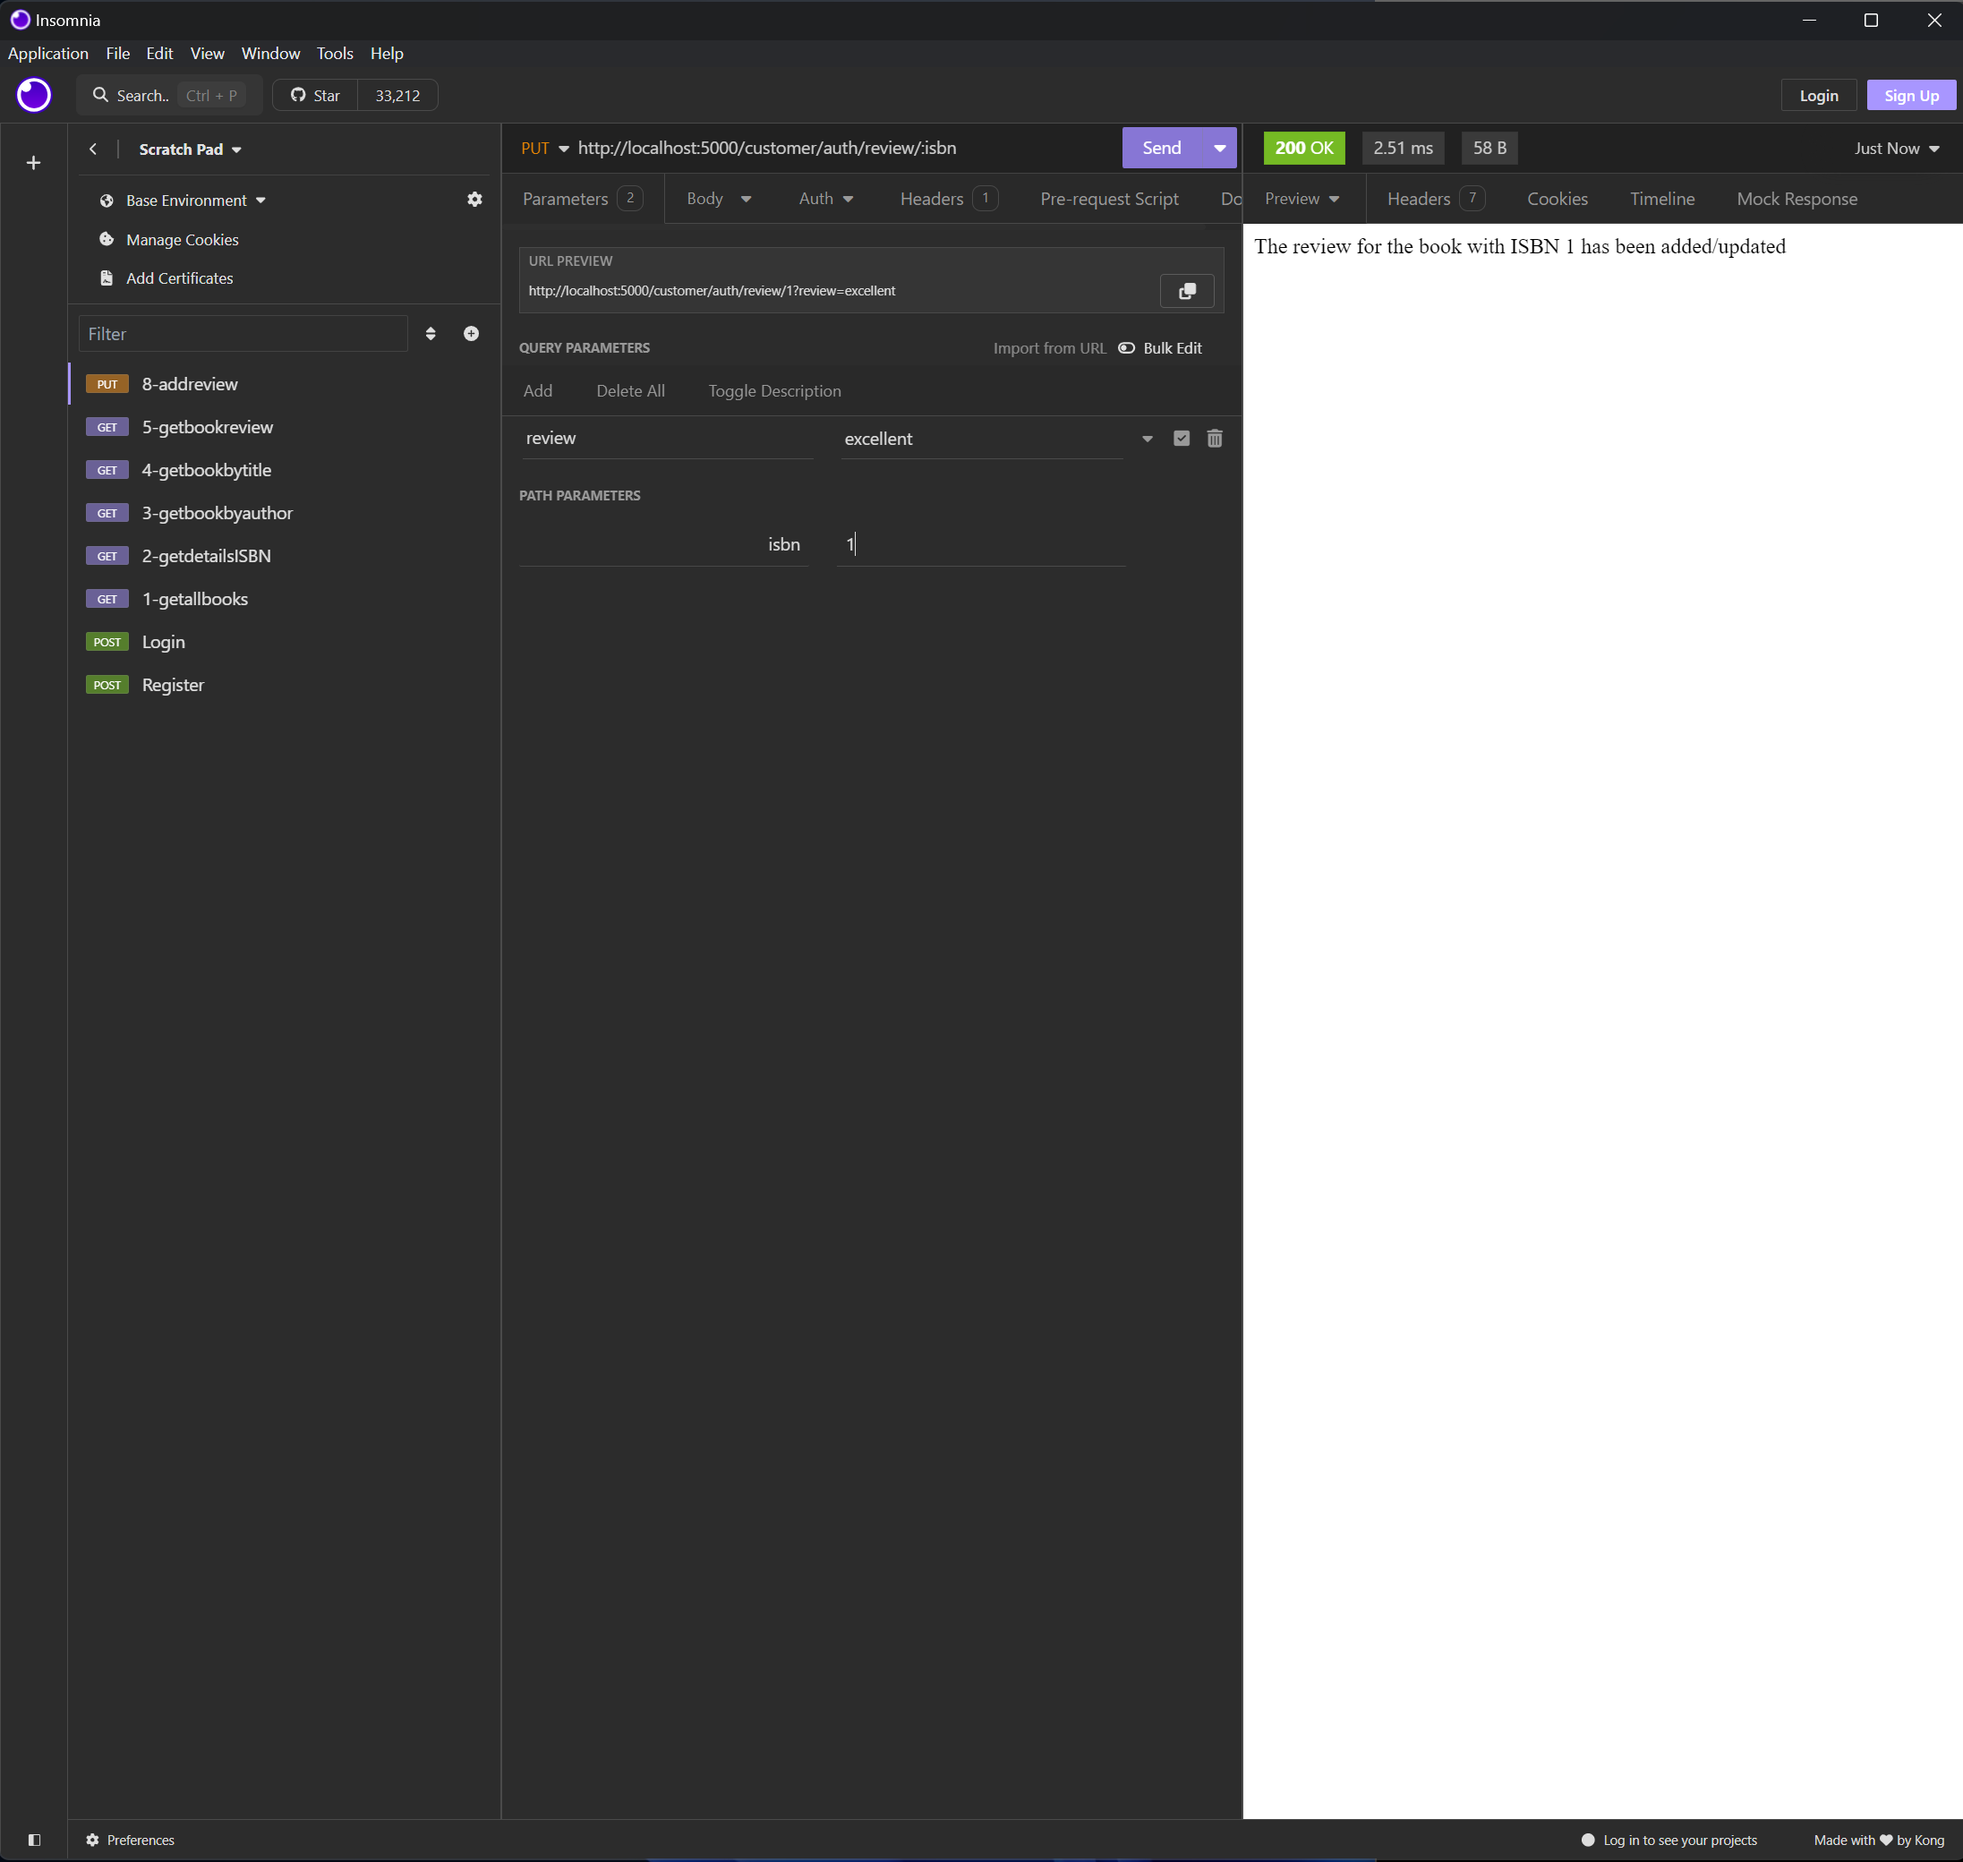
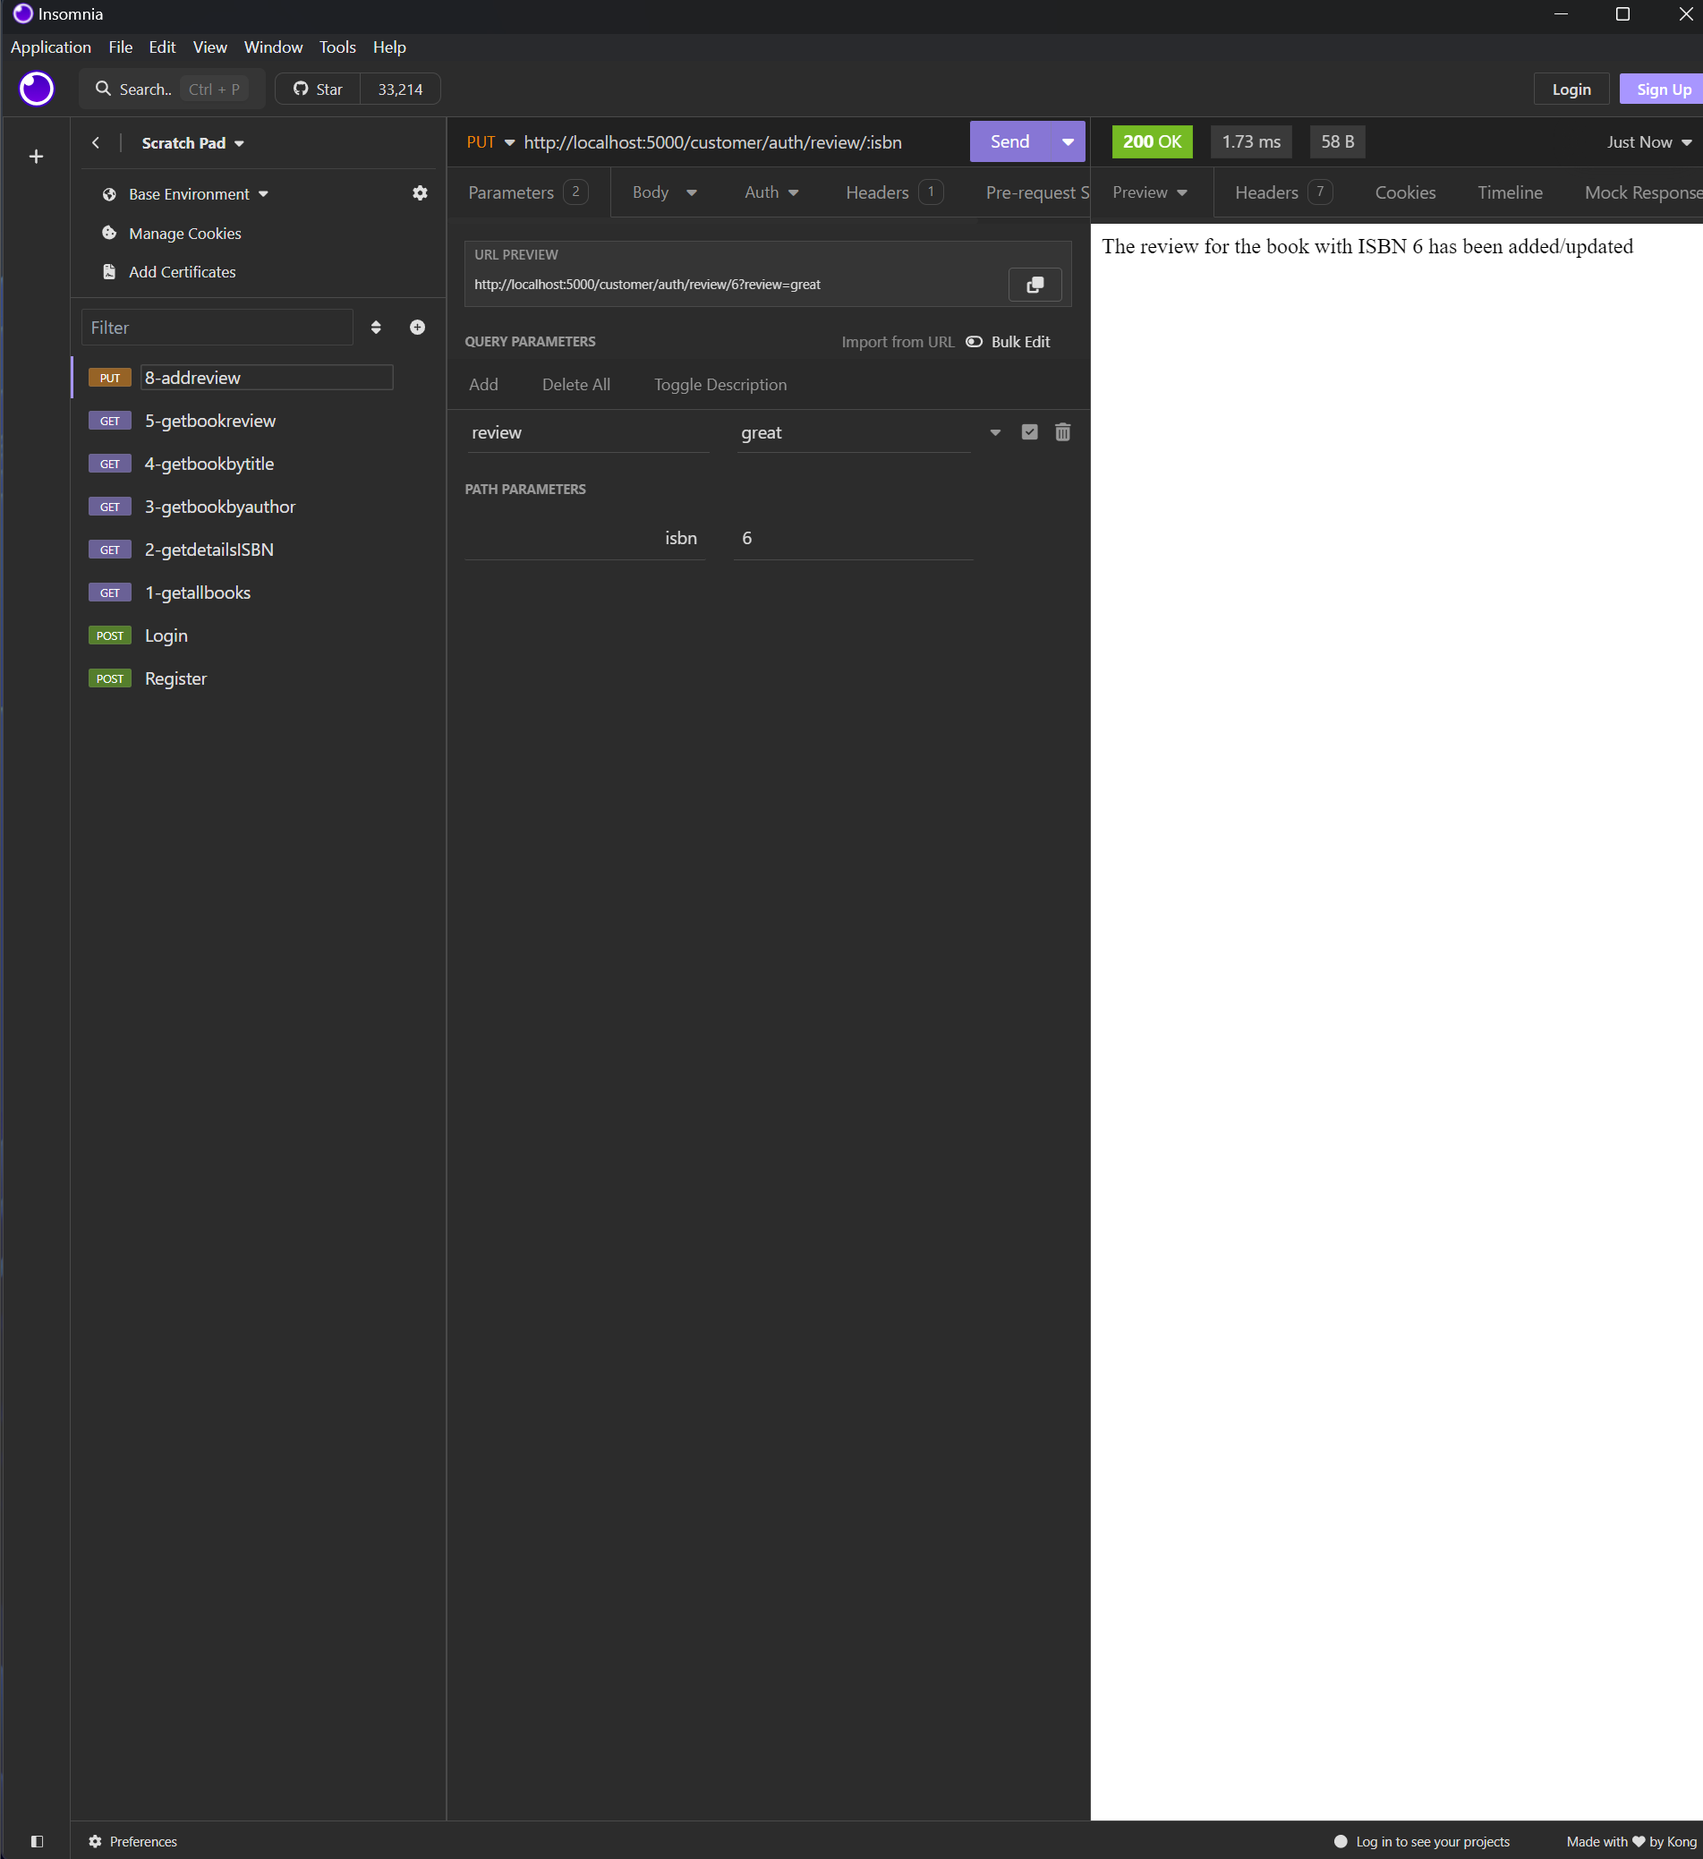
added review for multiple users and DELETE

diff --git a/final_project/router/auth_users.js b/final_project/router/auth_users.js
@@ -59,9 +59,24 @@ regd_users.post("/login", (req,res) => {
 regd_users.put("/auth/review/:isbn", (req, res) => {
   let isbn = req.params.isbn;
   let review = req.query.review;
-  let user = req.session.user;
-  books[isbn].reviews = `${user.username}:  ${review}`;
+  let user = req.session.user.username;
+  let reviews = books[isbn].reviews;
+  reviews[`${user}`] = `${user}:  ${review}`;
   return res.status(200).send(`The review for the book with ISBN ${isbn} has been added/updated`);
+});
+
+// Delete a book review
+regd_users.delete("/auth/review/:isbn", (req, res) => {
+  let isbn = req.params.isbn;
+  let user = req.session.user.username;
+  let reviews = books[isbn].reviews;
+  if(reviews[`${user}`]){
+    delete  reviews[`${user}`];
+    return res.status(200).send(`Reviews for the book with ISBN ${isbn} by the user test deleted.`);
+  } else {
+    return res.json({message: "Cannot delete post, post does not exist."})
+  }
+  
 });
 
 module.exports.authenticated = regd_users;
